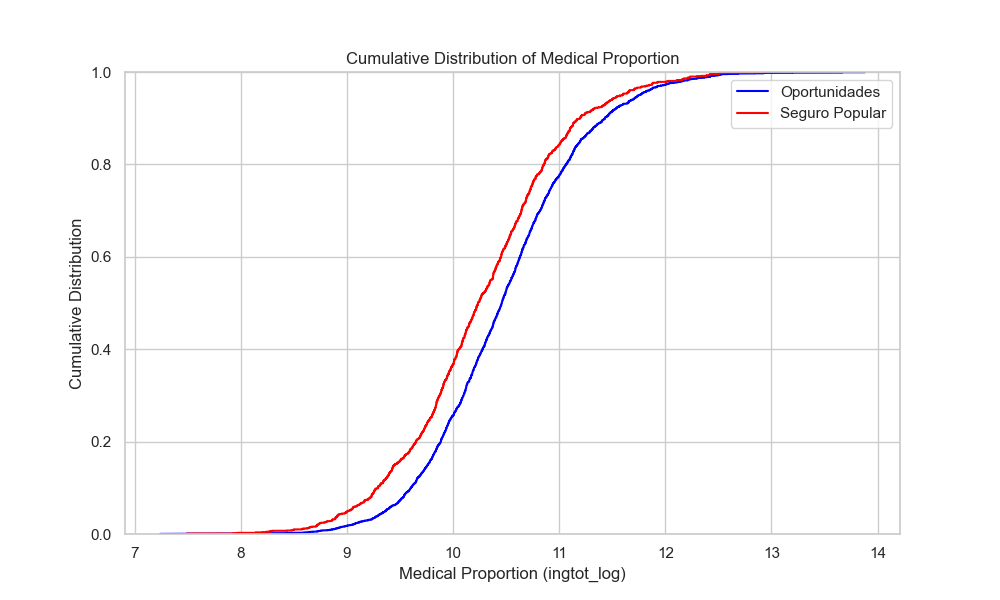
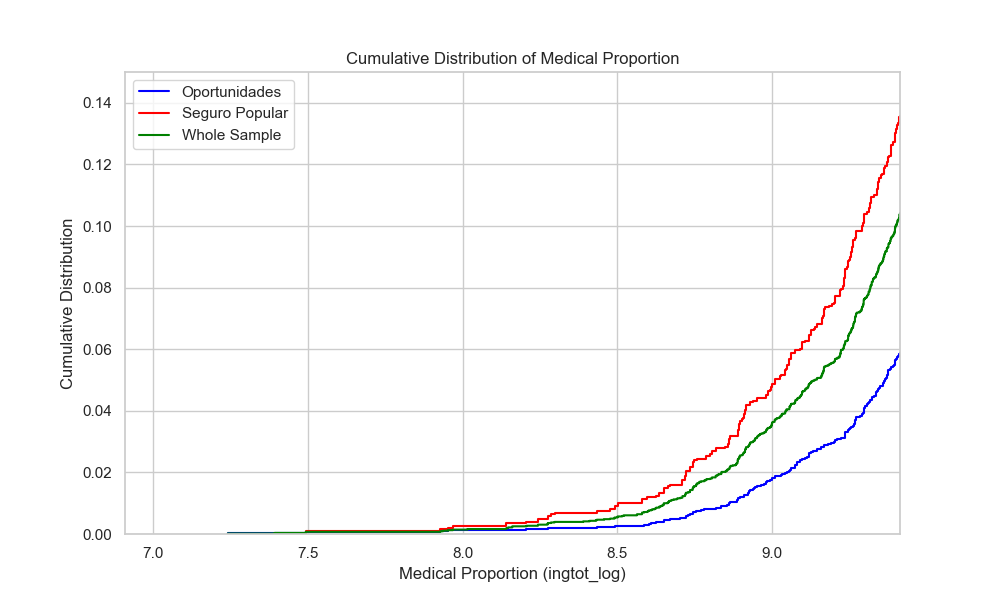
Specifying the scope of my graphs to represent poverty line

diff --git a/Final_form.py b/Final_form.py
@@ -256,19 +256,24 @@ def save_medica_prop_cumulative_distribution(df, output_dir):
     # Setting seaborn style
     sns.set(style="whitegrid")
 
-    # Separate data for 'assigned_to_oportunidades' and 'assigned_to_seguro_popular'
+    # Separate data for 'assigned_to_oportunidades', 'assigned_to_seguro_popular', and the whole sample
     oportunidades_data = df[df['assigned_to_oportunidades']]['ingtot_log']
     seguro_popular_data = df[df['assigned_to_seguro_popular']]['ingtot_log']
+    whole_sample_data = df['ingtot_log']  # Whole sample data
 
     # Plotting the cumulative distribution
     plt.figure(figsize=(10, 6))
     sns.ecdfplot(oportunidades_data, label='Oportunidades', color='blue')
     sns.ecdfplot(seguro_popular_data, label='Seguro Popular', color='red')
+    sns.ecdfplot(whole_sample_data, label='Whole Sample', color='green')  # Plot for whole sample
     plt.xlabel('Medical Proportion (ingtot_log)')
     plt.ylabel('Cumulative Distribution')
     plt.title('Cumulative Distribution of Medical Proportion')
     plt.legend()
-
+    
+    # Limit x-axis to stop at 9.413
+    plt.xlim(right=9.413)
+    plt.ylim(top=0.15)
 
     # Save the plot to the specified directory
     plt.savefig(f"{output_dir}/Medical_Proportion_Cumulative_Distribution.png")
@@ -278,3 +283,29 @@ def save_medica_prop_cumulative_distribution(df, output_dir):
 # Assuming 'df' is your DataFrame and 'directory_path' is the path to the directory where you want to save the plot
 save_medica_prop_cumulative_distribution(df, directory_path)
 
+def save_medica_prop_full_distribution(df, output_dir):
+    # Setting seaborn style
+    sns.set(style="whitegrid")
+
+    # Separate data for 'assigned_to_oportunidades', 'assigned_to_seguro_popular', and the whole sample
+    oportunidades_data = df[df['assigned_to_oportunidades']]['ingtot_log']
+    seguro_popular_data = df[df['assigned_to_seguro_popular']]['ingtot_log']
+    whole_sample_data = df['ingtot_log']  # Whole sample data
+
+    # Plotting the cumulative distribution
+    plt.figure(figsize=(10, 6))
+    sns.ecdfplot(oportunidades_data, label='Oportunidades', color='blue')
+    sns.ecdfplot(seguro_popular_data, label='Seguro Popular', color='red')
+    sns.ecdfplot(whole_sample_data, label='Whole Sample', color='green')  # Plot for whole sample
+    plt.xlabel('Medical Proportion (ingtot_log)')
+    plt.ylabel('Cumulative Distribution')
+    plt.title('Full Cumulative Distribution of Medical Proportion')
+    plt.legend()
+
+    # Save the plot to the specified directory
+    plt.savefig(f"{output_dir}/Full_Medical_Proportion_Cumulative_Distribution.png")
+    plt.close()
+
+# Usage
+# Assuming 'df' is your DataFrame and 'directory_path' is the path to the directory where you want to save the plot
+save_medica_prop_full_distribution(df, directory_path)
